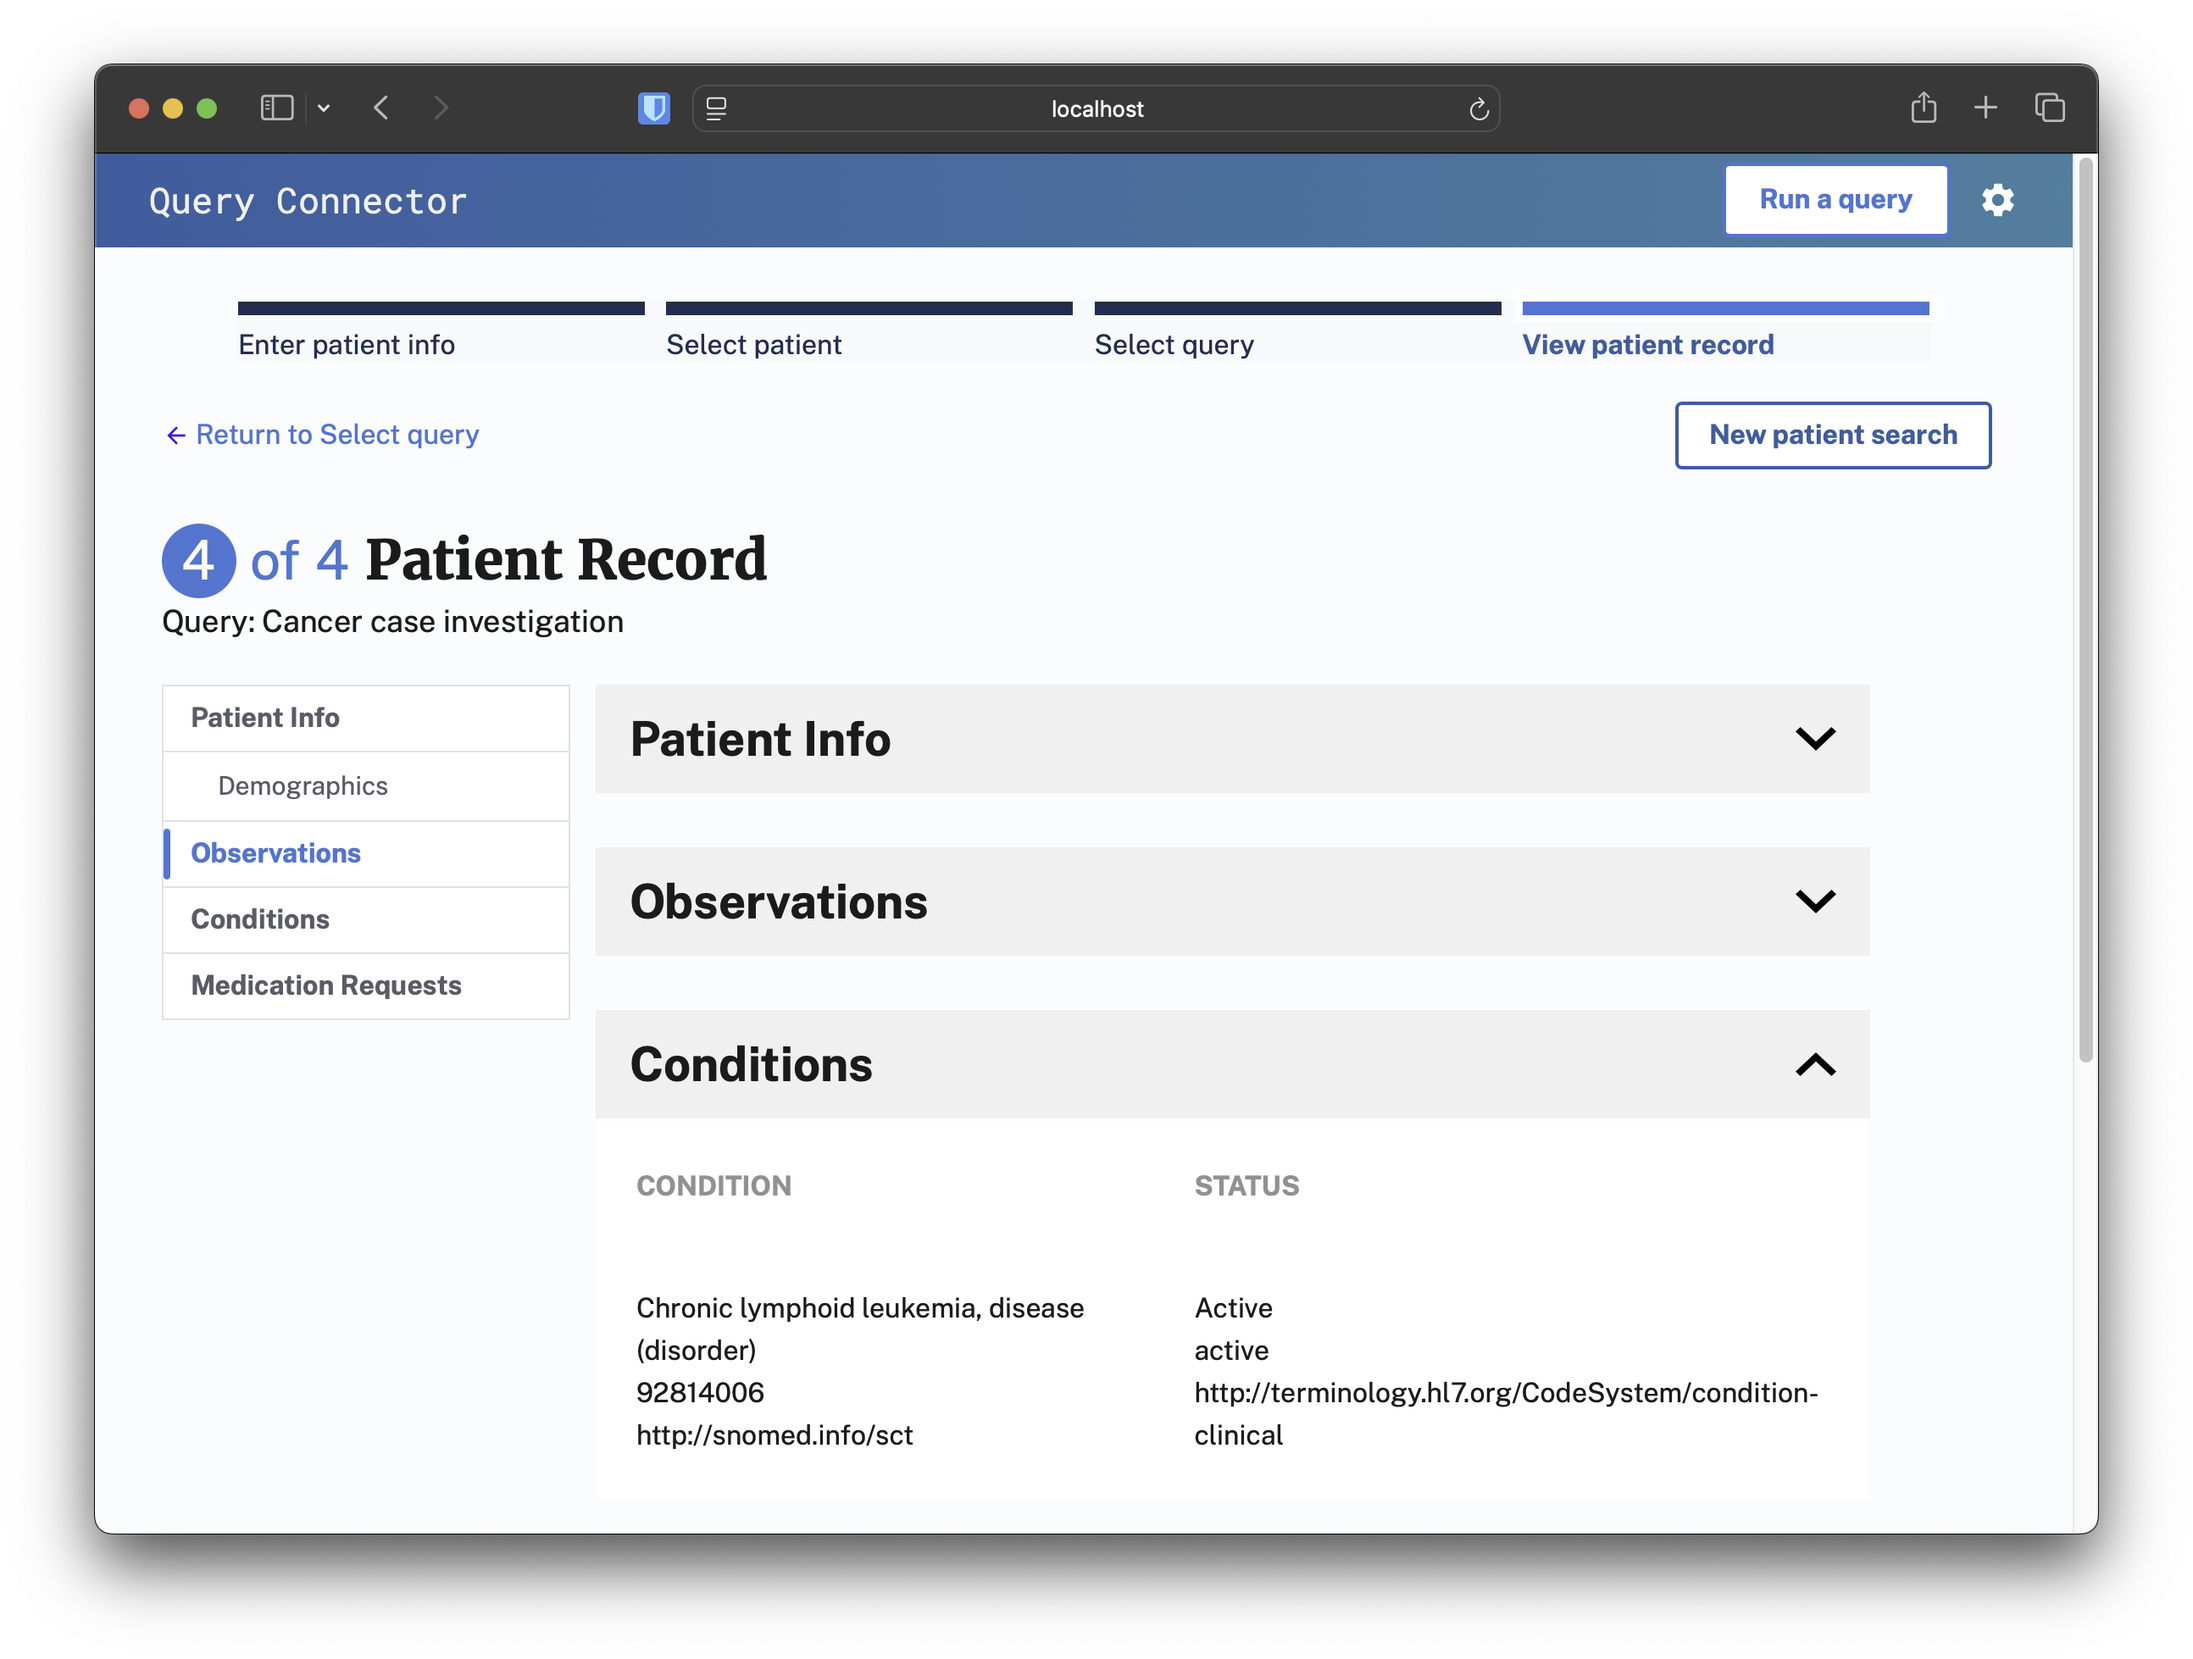
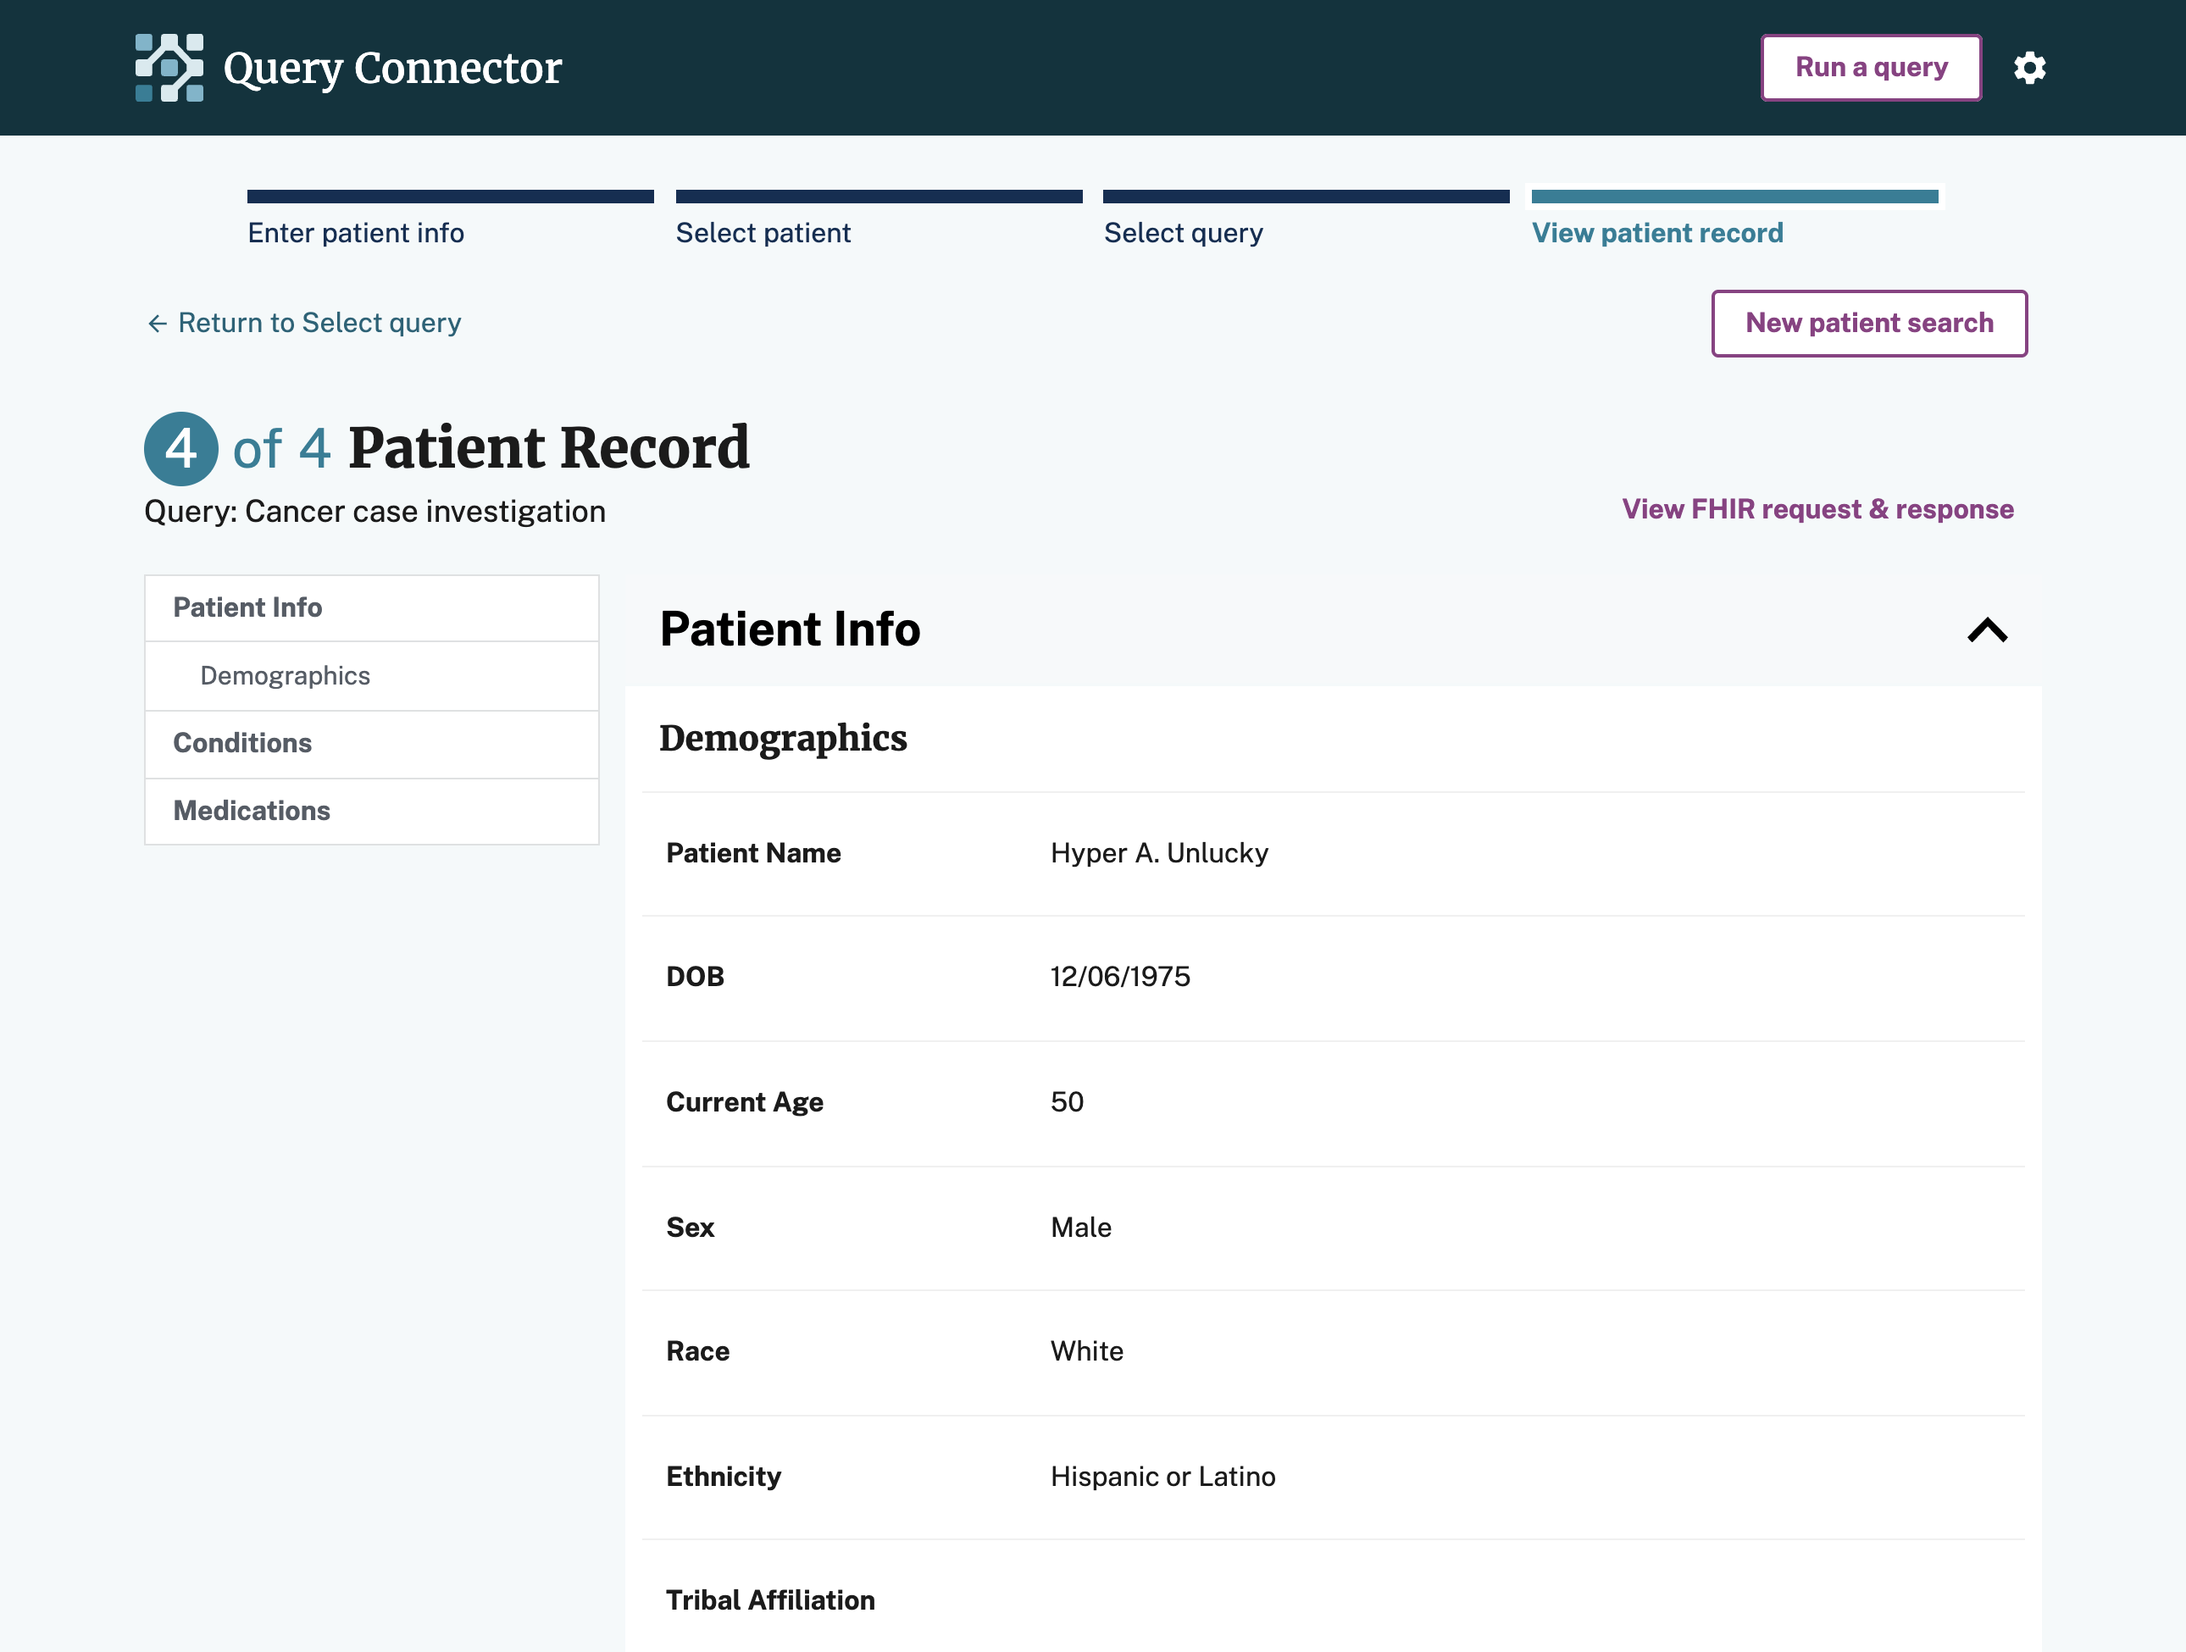
docs: Update README - refresh screenshot, fix environment URLs and doc links (#990)

diff --git a/README.md b/README.md
@@ -4,7 +4,7 @@
 [![pre-commit](https://img.shields.io/badge/pre--commit-enabled-brightgreen?logo=pre-commit)](https://github.com/pre-commit/pre-commit)
 [![Test github badge](https://img.shields.io/github/actions/workflow/status/CDCgov/dibbs-query-connector/ci.yaml)](https://github.com/CDCgov/dibbs-query-connector/actions/workflows/ci.yaml)
 [![Dev site](https://img.shields.io/website?url=https%3A%2F%2Fqueryconnector.dev&label=queryconnector.dev)](https://queryconnector.dev)
-[![Demo site](https://img.shields.io/website?url=https%3A%2F%2Fdemo.queryconnector.dev&label=demo.queryconnector.dev)](https://demo.queryconnector.dev)
+[![Demo site](https://img.shields.io/website?url=https%3A%2F%2Fconnector.dibbs.tools&label=connector.dibbs.tools)](https://connector.dibbs.tools)
 
 ![Query Connector Screenshot](./public/query-connector-screenshot.png)
 
@@ -12,7 +12,7 @@
 
 This repository is a part of the CDC [DIBBs project](https://dibbs.tools/) and seeks to build the DIBBs Query Connector.
 
-The DIBBs Query Connector app offers a REST API and comprehensive UI for public health staff to query a wide network of healthcare organizations (HCOs), providing access to more complete and timely data.
+The DIBBs Query Connector app offers a REST API and comprehensive UI for public health staff to query a wide network of healthcare organizations (HCOs), providing access to more complete and timely data. It's built with Next.js 16 (App Router), React 19, and TypeScript, backed by PostgreSQL with Flyway migrations, and uses NextAuth for authentication and the U.S. Web Design System (USWDS) for its UI.
 
 The Query Connector is a tool for public health practitioners to quickly retrieve patient records and relevant case information from HCOs. The tool works either by making direct FHIR queries or by connecting to Qualified Health Information Networks (QHINs) within the Trusted Exchange Framework and Common Agreement (TEFCA), ensuring immediate access to essential health data and facilitating timely public health decisions and interventions. Public health staff can interact with the Query Connector manually by entering simple patient details — such as name, date of birth, or medical identifiers — into a web-based search form. The tool also allows for automated queries via integration engines like Rhapsody and Mirth.
 
@@ -32,9 +32,11 @@ You can find more detailed documentation, guides, and tutorials here:
 
 - For public health IT staff:
 
-  - [Architecture](src/docs/architecture.mdx)
   - [Deploying Query Connector](src/docs/deployment.mdx)
+  - [Configuring your Identity Provider](src/docs/idp-setup.mdx)
   - [API Docs](src/docs/api.mdx)
+  - [Mutual TLS Setup](src/docs/mutual-tls-setup.mdx)
+  - [FHIR Connection Guide (Epic)](src/docs/fhir-connection-guide.mdx)
   - [ONC audit log compliance](src/docs/audit-log.mdx)
 
 - For developers:
@@ -45,9 +47,23 @@ You can find more detailed documentation, guides, and tutorials here:
 
 ## Try it out!
 
-Access to the demo instance of the latest official release DIBBs Query Connector is available at [https://demo.queryconnector.dev](https://demo.queryconnector.dev).
+Access to the demo instance of the latest official release of DIBBs Query Connector is available at [https://connector.dibbs.tools](https://connector.dibbs.tools).
 
 Access to the dev instance of the main branch of DIBBs Query Connector is available at [https://queryconnector.dev](https://queryconnector.dev).
+
+## Getting started
+
+To run the Query Connector locally, you'll need [Node.js](https://nodejs.org/) and [Docker](https://www.docker.com/) installed:
+
+```bash
+git clone https://github.com/CDCgov/dibbs-query-connector
+cd dibbs-query-connector
+npm install
+npm run setup-local-env  # generates .env from .env.sample
+npm run dev              # starts Docker services + Next.js dev server
+```
+
+The app will be available at [http://localhost:3000](http://localhost:3000). See the [local development guide](src/docs/development.mdx) for the full setup, including test commands and optional services.
 
 ## Additional Acknowledgments
 
@@ -98,7 +114,7 @@ later.
 All comments, messages, pull requests, and other submissions received through
 CDC including this GitHub page may be subject to applicable federal law, including but not limited to the Federal Records Act, and may be archived. Learn more at [http://www.cdc.gov/other/privacy.html](http://www.cdc.gov/other/privacy.html).
 
-See [CONTRIBUTING.md](src/docs/contributing.mdx) for more information.
+See the [contributing guide](src/docs/contributing.mdx) for more information.
 
 ### Records Management Standard Notice
 
